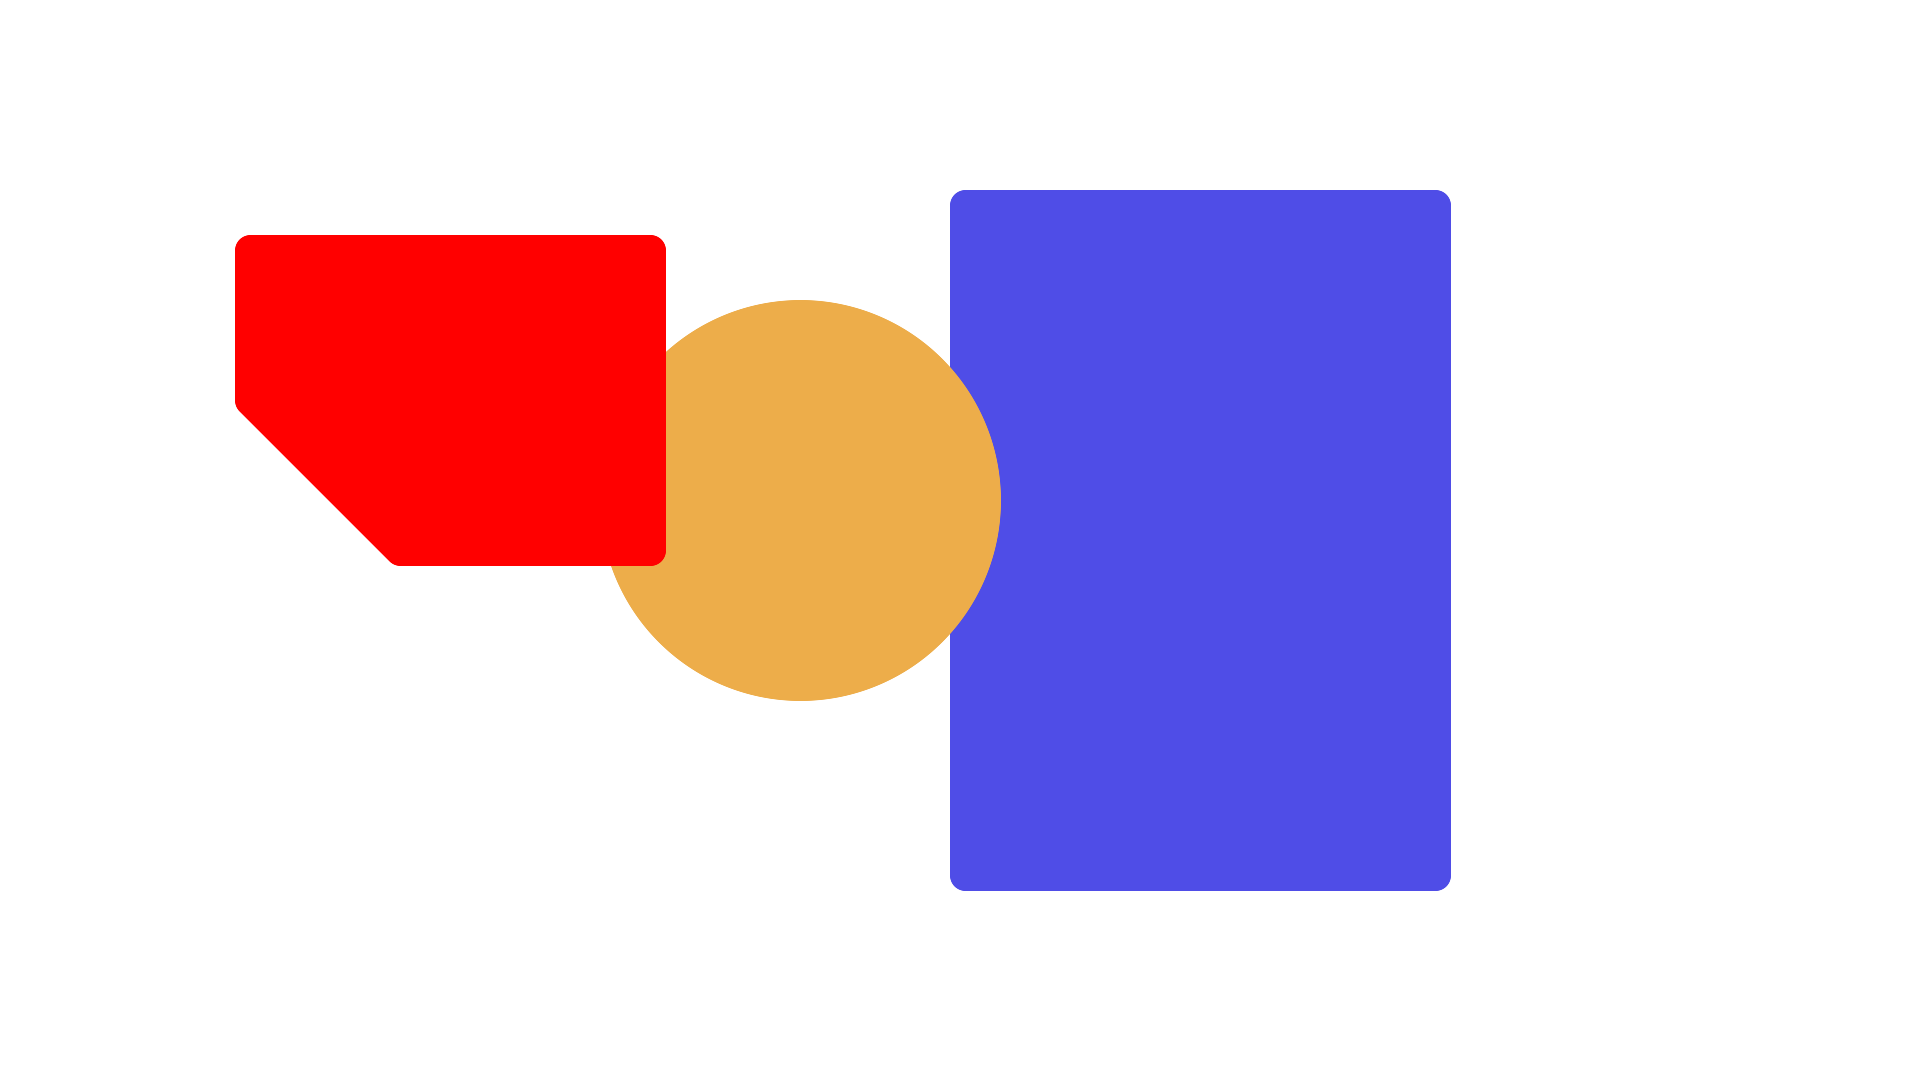
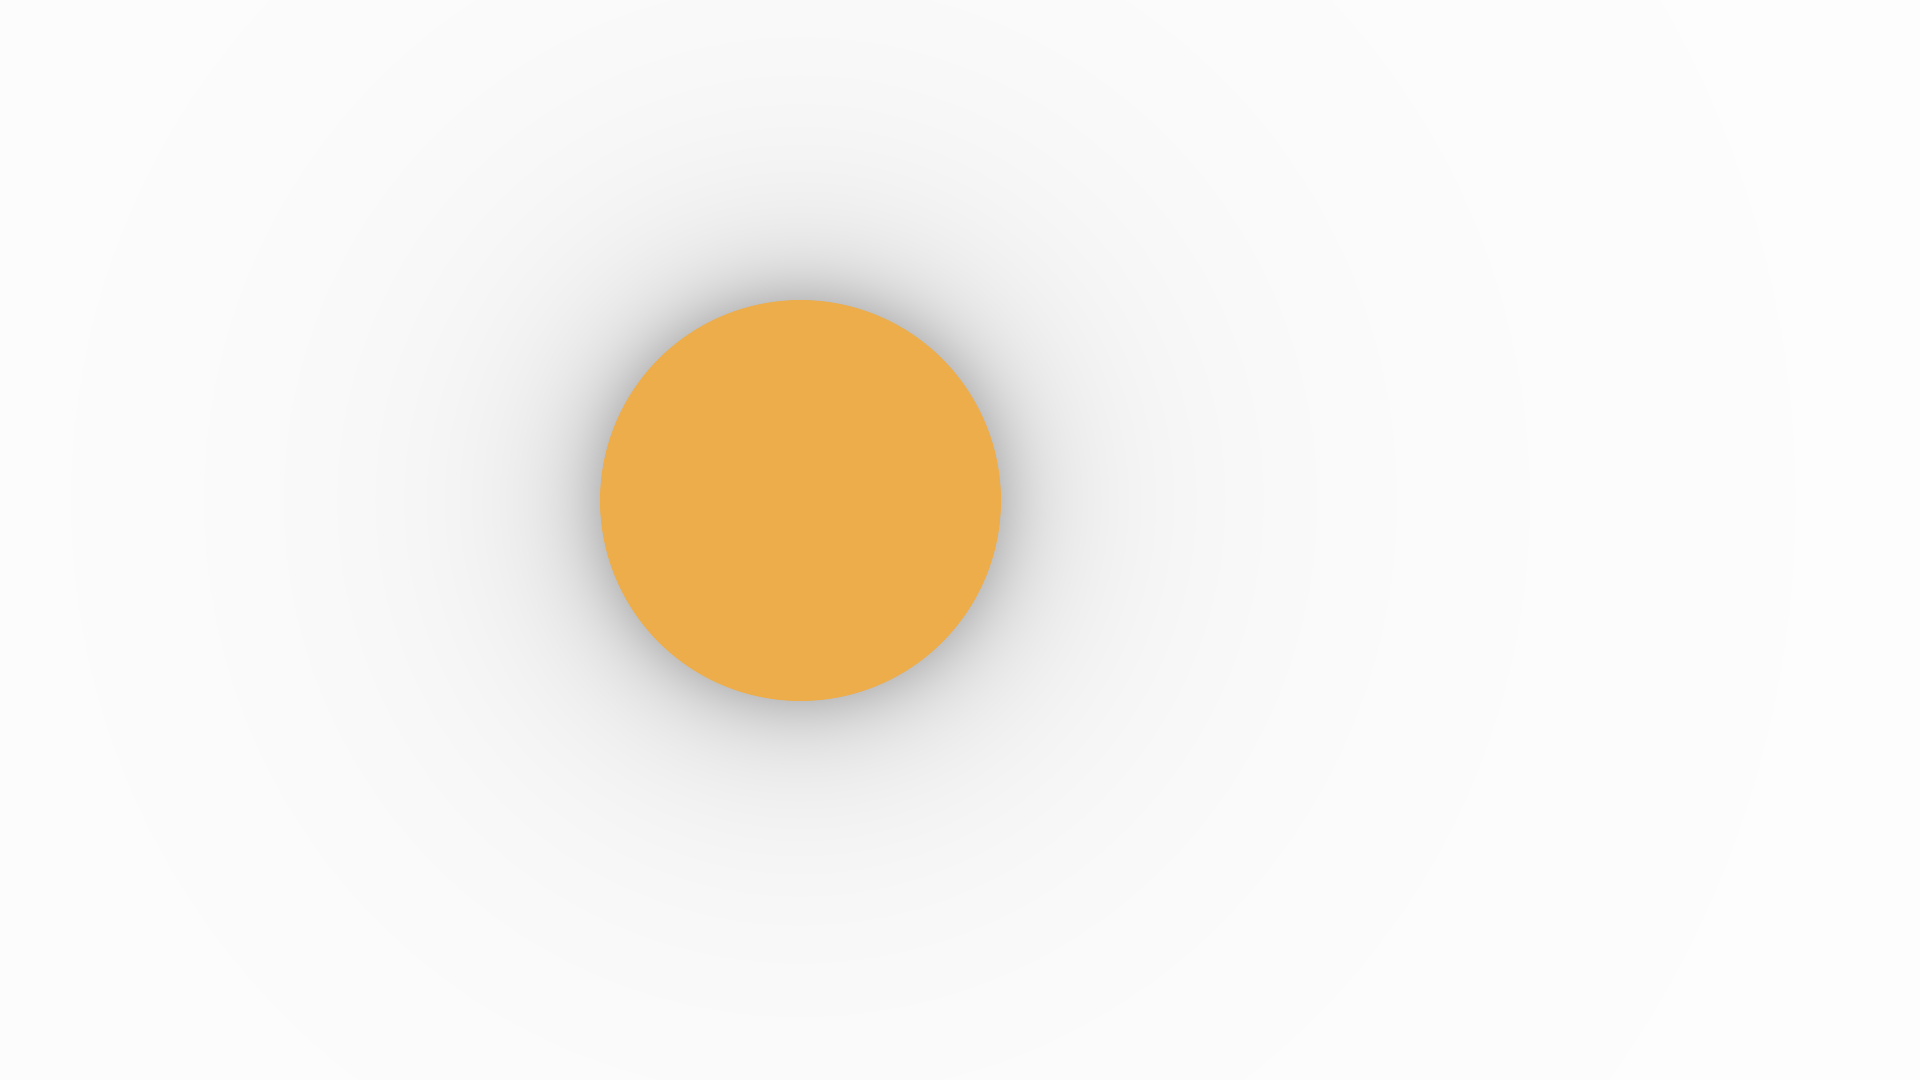
Add dropshadows that sometimes even work

Changed region(s): [[0.125, 0.1528, 0.7812, 0.825]]

diff --git a/sdf_renderer.py b/sdf_renderer.py
@@ -1,5 +1,4 @@
 # %% 
-from ctypes.wintypes import RECT
 import math
 import matplotlib.pyplot as plt
 import numpy as np
@@ -7,6 +6,7 @@ import time
 from PIL import Image
 from cmath import inf
 from numba import jit
+import cv2
 
 # %%
 # Vector support functions
@@ -39,7 +39,7 @@ POLYGON = 3
     
     
 def generate_render_texture(width, height, depth=4, type=np.uint8):
-    return np.zeros((height, width, depth), type)
+    return np.full((height, width, depth), fill_value=255, dtype=np.uint8)
 
 
 def save_tex(texture, name="image.png"):
@@ -119,16 +119,13 @@ def box(sample_x, sample_y, bx, by, bw, bh):
 
     return length(max(qx, 0), max(qy, 0)) + min(max(qx, qy), 0)
 
-
 @jit(nopython=True)
 def rounded_box(sample_x, sample_y, bx, by, bw, bh, radius):
     return inflate(box(sample_x, sample_y, bx, by, bw - 2 * radius, bh - 2 * radius), radius)
 
-
 @jit(nopython=True)
 def circle(sample_x, sample_y, r, cx, cy):
     return math.sqrt((sample_x - cx) ** 2 + (sample_y - cy) ** 2) - r
-
 
 @jit(nopython=True)
 def polygon(sample_x, sample_y, points):
@@ -162,20 +159,19 @@ def polygon(sample_x, sample_y, points):
     return s * math.sqrt(d)
 
 @jit(nopython=True)
+def multiply(c, f):
+    r = int(float(c[0]) * f)
+    g = int(float(c[1]) * f)
+    b = int(float(c[2]) * f)
+    return [r, g, b, 255]
+
+@jit(nopython=True)
 def render(render_tex, dist_tex, tex_width, tex_height, objects):
     for w in range(tex_width):
         for h in range(tex_height):
-            dist_tex[h][w] = inf
-
-    # bounding_boxes = np.zeros((len(objects), 4), np.float64)
-
-    for w in range(tex_width):
-        for h in range(tex_height):
-            render_tex[h][w] = [255, 255, 255, 255]
-
-            # Calculate distances of all objects 
+            shadow_angle = np.pi
+ 
             for object_descriptor in objects:
-                # Determine distance to objects
                 d = inf
                 if object_descriptor[0] == LINE:
                     d = line(w, h, 10, 10, 1910, 1070, 2)
@@ -191,32 +187,24 @@ def render(render_tex, dist_tex, tex_width, tex_height, objects):
 
                 dist_tex[h][w] = min(dist_tex[h][w], d)
 
-                # Coloring based on the distance fields
-                if 0 > d:
+                elevation = 40.0
+                if d > 1.0:
+                    shadow_angle -= np.arctan(elevation/d)
+                else:
+                    shadow_angle = np.pi
+
+                if d < -0.5:
                     render_tex[h][w] = [object_descriptor[1], object_descriptor[2], object_descriptor[3], 255]
-                    # id_tex[h][w] = [object_descriptor[1], object_descriptor[2], object_descriptor[3]]
-                    continue
 
-                if 1 >= d >= 0:
+                if 1 >= d >= -0.5:
                     s = smoothstep(d, 0, 1)
-                    render_tex[h][w] = interpolate_colors(
-                        [object_descriptor[1], object_descriptor[2], object_descriptor[3], 255], render_tex[h][w], s)
+                    if d > 0:
+                         shadow_angle = 0.5 * np.pi
+                    render_tex[h][w] = interpolate_colors([object_descriptor[1], object_descriptor[2], object_descriptor[3], 255], multiply(render_tex[h][w], (abs(125*shadow_angle/np.pi)+130)/255), s)
                     continue
 
-                # TODO: Read from object descriptor
-                # outline_r = 0
-
-                # if outline_r > 0:
-                #    # interpolate between inner color and outline color
-                #    if outline_r + 1 >= dist_tex[h][w] > 1:
-                #        render_tex[h][w] = [255, 0, 0, 255]
-                #        continue
-
-                #    # interpolate between outline color and bordering color(not implemented) or background color(implemented)
-                #    if outline_r + 2 >= dist_tex[h][w] > outline_r + 1:
-                #        s = int(smoothstep(dist_tex[h][w], 0, 1) * 255)
-                #        render_tex[h][w] = [255, s, s, 255]
-                #        continue
+                if d > 1:
+                    render_tex[h][w] = multiply(render_tex[h][w], (abs(125*shadow_angle/np.pi)+130)/255)
 
 # %%
 # Driver code
@@ -226,20 +214,22 @@ def render(render_tex, dist_tex, tex_width, tex_height, objects):
 TEX_WIDTH, TEX_HEIGHT = 1920, 1080
 
 render_tex = generate_render_texture(TEX_WIDTH, TEX_HEIGHT)
-dist_tex = np.zeros((TEX_HEIGHT, TEX_WIDTH), np.float64)
+dist_tex = np.full((TEX_HEIGHT, TEX_WIDTH), fill_value=np.inf, dtype=np.float64)
+shadow_map = np.zeros((TEX_HEIGHT, TEX_WIDTH), dtype=np.float64)
 
 # Setup objects
-N_OBJECTS = 3
+N_OBJECTS = 1
 
-object_descriptors = np.zeros((N_OBJECTS, 4), np.int)
+object_descriptors = np.zeros((N_OBJECTS, 4), np.int32)
 
-# Universal Object Description: [type, r, g, b] to be extended
-object_descriptors[0] = [RECT, 79, 77, 231]
+# Universal Object Description: [type, r, g, b], to be extended...
+# object_descriptors[0] = [RECT, 79, 77, 231]
 # object_descriptors[1] = [LINE, 188, 136, 241]
-object_descriptors[1] = [CIRCLE, 237, 173, 74]
-object_descriptors[2] = [POLYGON, 255, 0, 0]
+object_descriptors[0] = [CIRCLE, 237, 173, 74]
+# object_descriptors[1] = [CIRCLE, 255, 255, 255]
+# object_descriptors[0] = [POLYGON, 255, 0, 0]
+# object_descriptors[0] = [POLYGON, 255, 255, 255]
 
-# Start rendering
 start = time.time()
 render(render_tex, dist_tex, TEX_WIDTH, TEX_HEIGHT, object_descriptors)
 print("Took:", (time.time() - start))
@@ -250,20 +240,18 @@ plt.tight_layout()
 plt.imshow(render_tex)
 plt.show()
 
-# plt.axis("off")
-# plt.tight_layout()
-# plt.imshow(dist_tex, cmap="gray")
-# plt.show()
+plt.axis("off")
+plt.tight_layout()
+plt.imshow(dist_tex, cmap="gray")
+plt.show()
 
-# plt.axis("off")
-# plt.tight_layout()
-# plt.imshow(id_tex)
-# plt.show()
+cv2.imwrite("dist_map.hdr", dist_tex)
 
-# save_tex(dist_tex, name="distances.png")
-# save_tex(id_tex, name="ids.png")
+save_tex(dist_tex, name="distances.bmp")
+# save_tex(shadow_map, name="shadows.bmp")
 save_tex(render_tex)
 show_image(render_tex)
 
 # %%
 
+# %%

diff --git a/README.md b/README.md
@@ -11,12 +11,14 @@ Experimental 2D Rendering engine based on signed distance functions (SDFs).
 - Mediocre Frametimes
 - Anti-Aliasing
 - Inflation and deflation
+- Shadows (for some obscure reason only or one object, or to be specific the last element from the object descriptor table)
 
 ### Planned Features
 - More shapes (BezierCurves, B-Splines)
 - Translation, Rotation, Scale
 - Text Rendering
 - Faster approximate mode (calculation of SDFs only in bounding box regions, etc.)
+- Outlines
 
 ---
 
